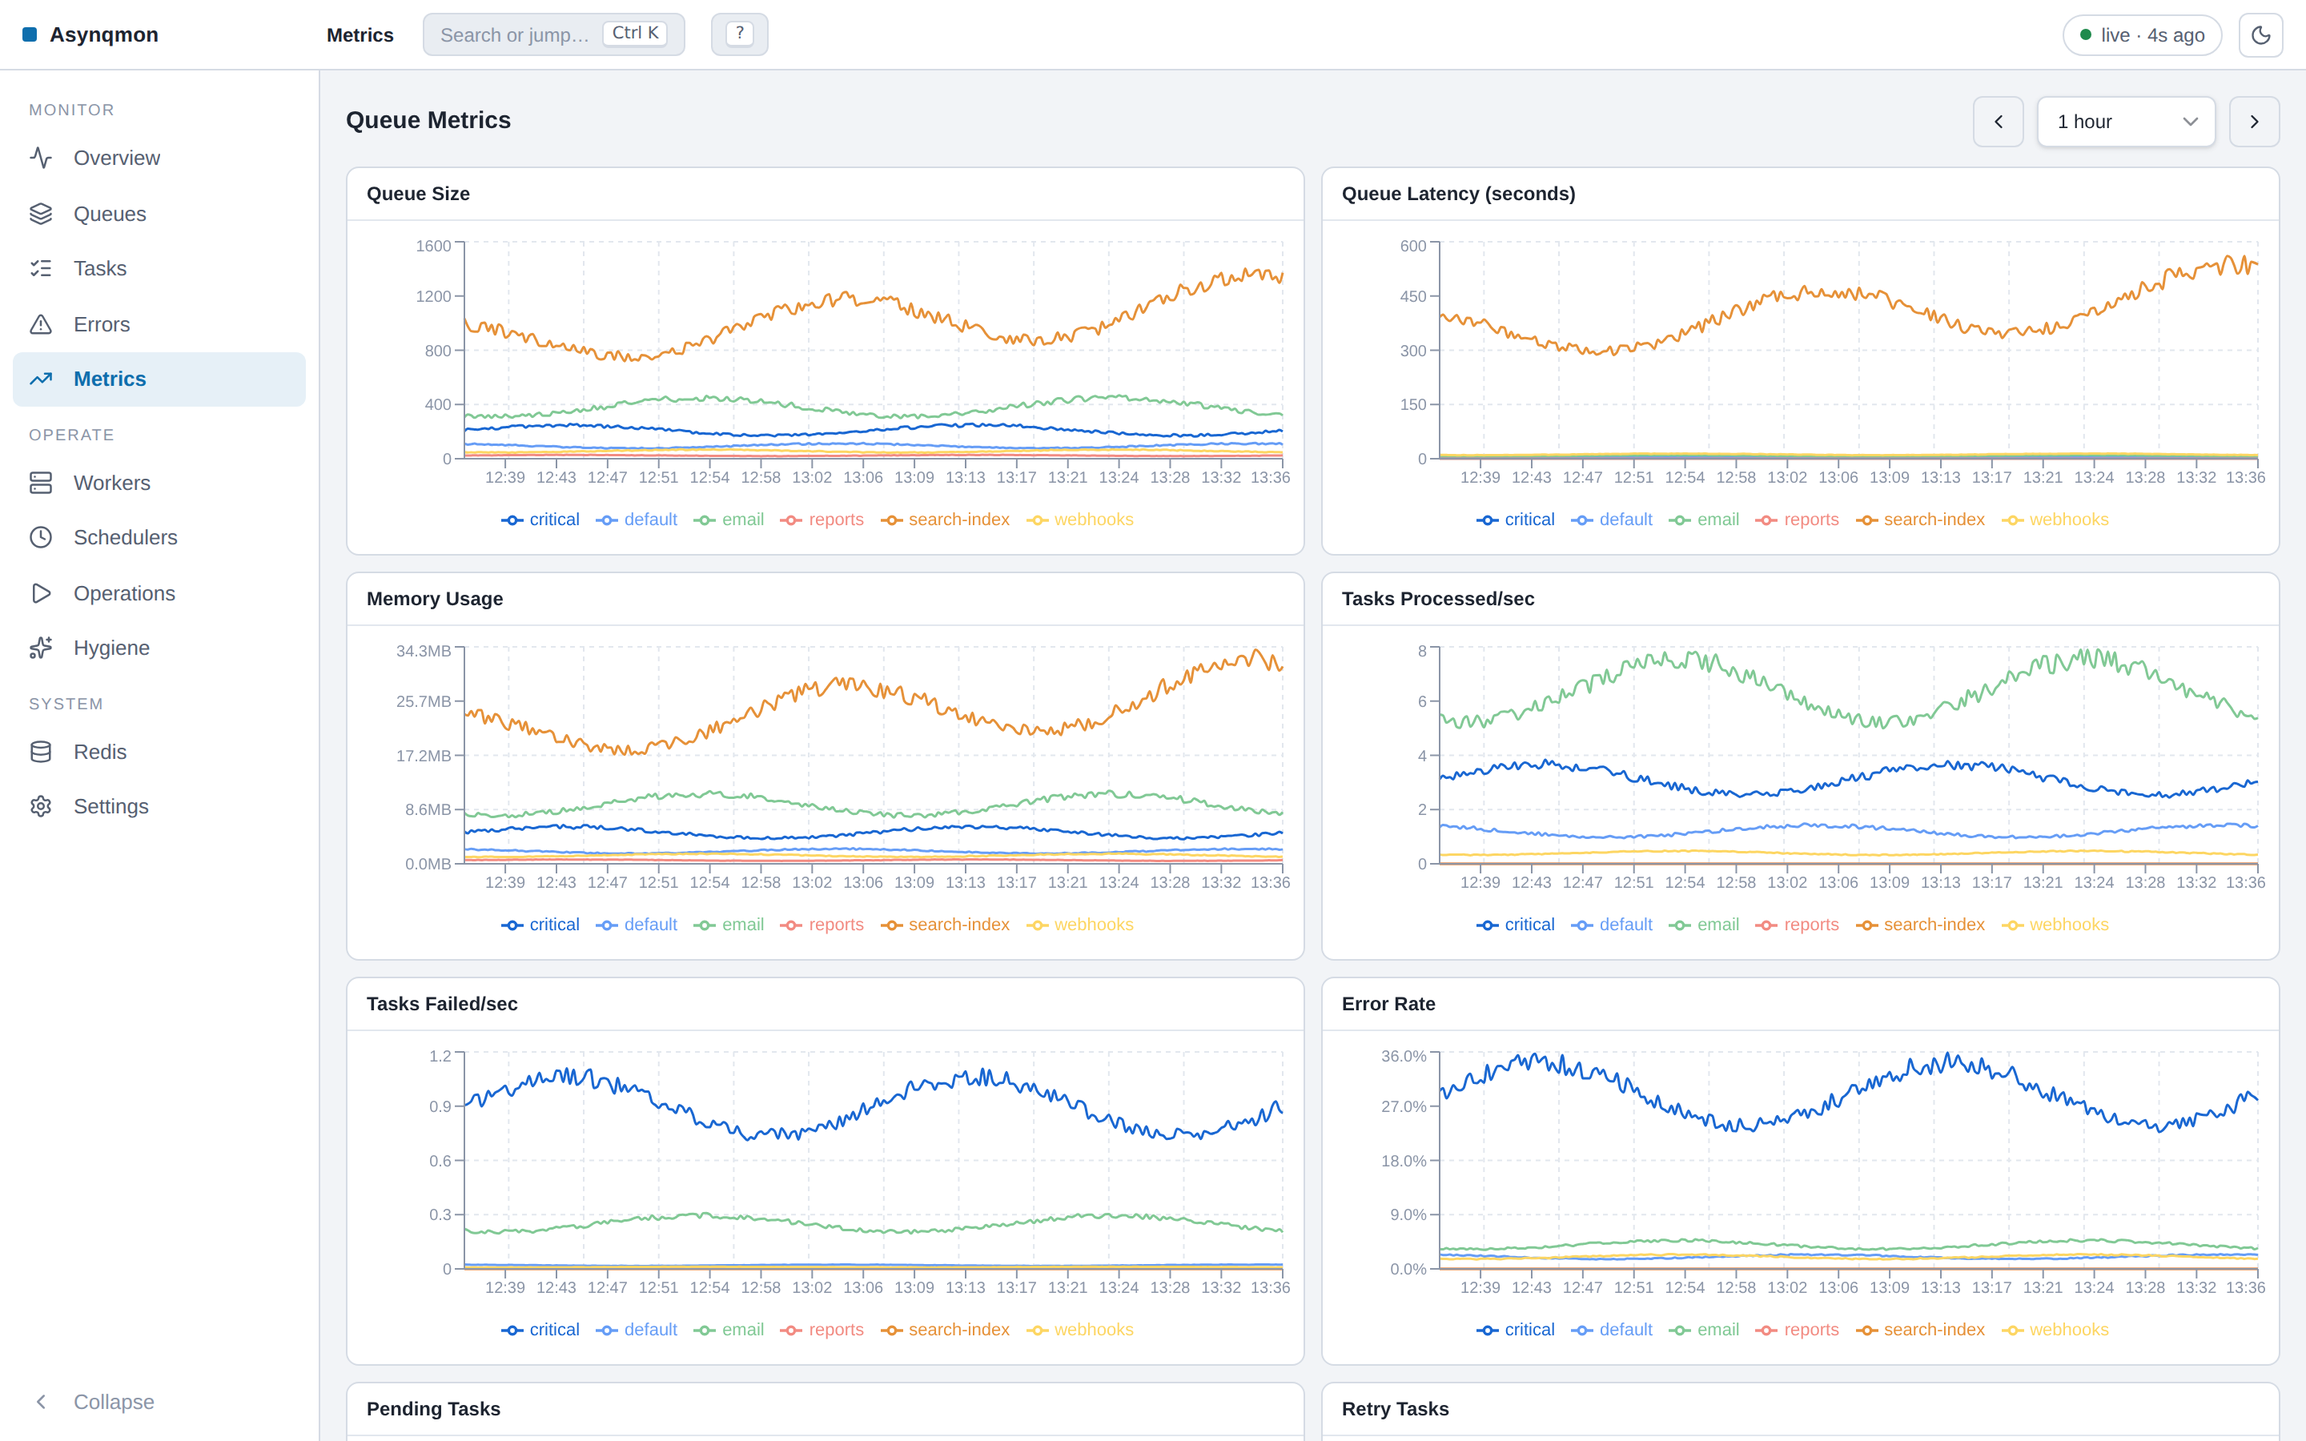
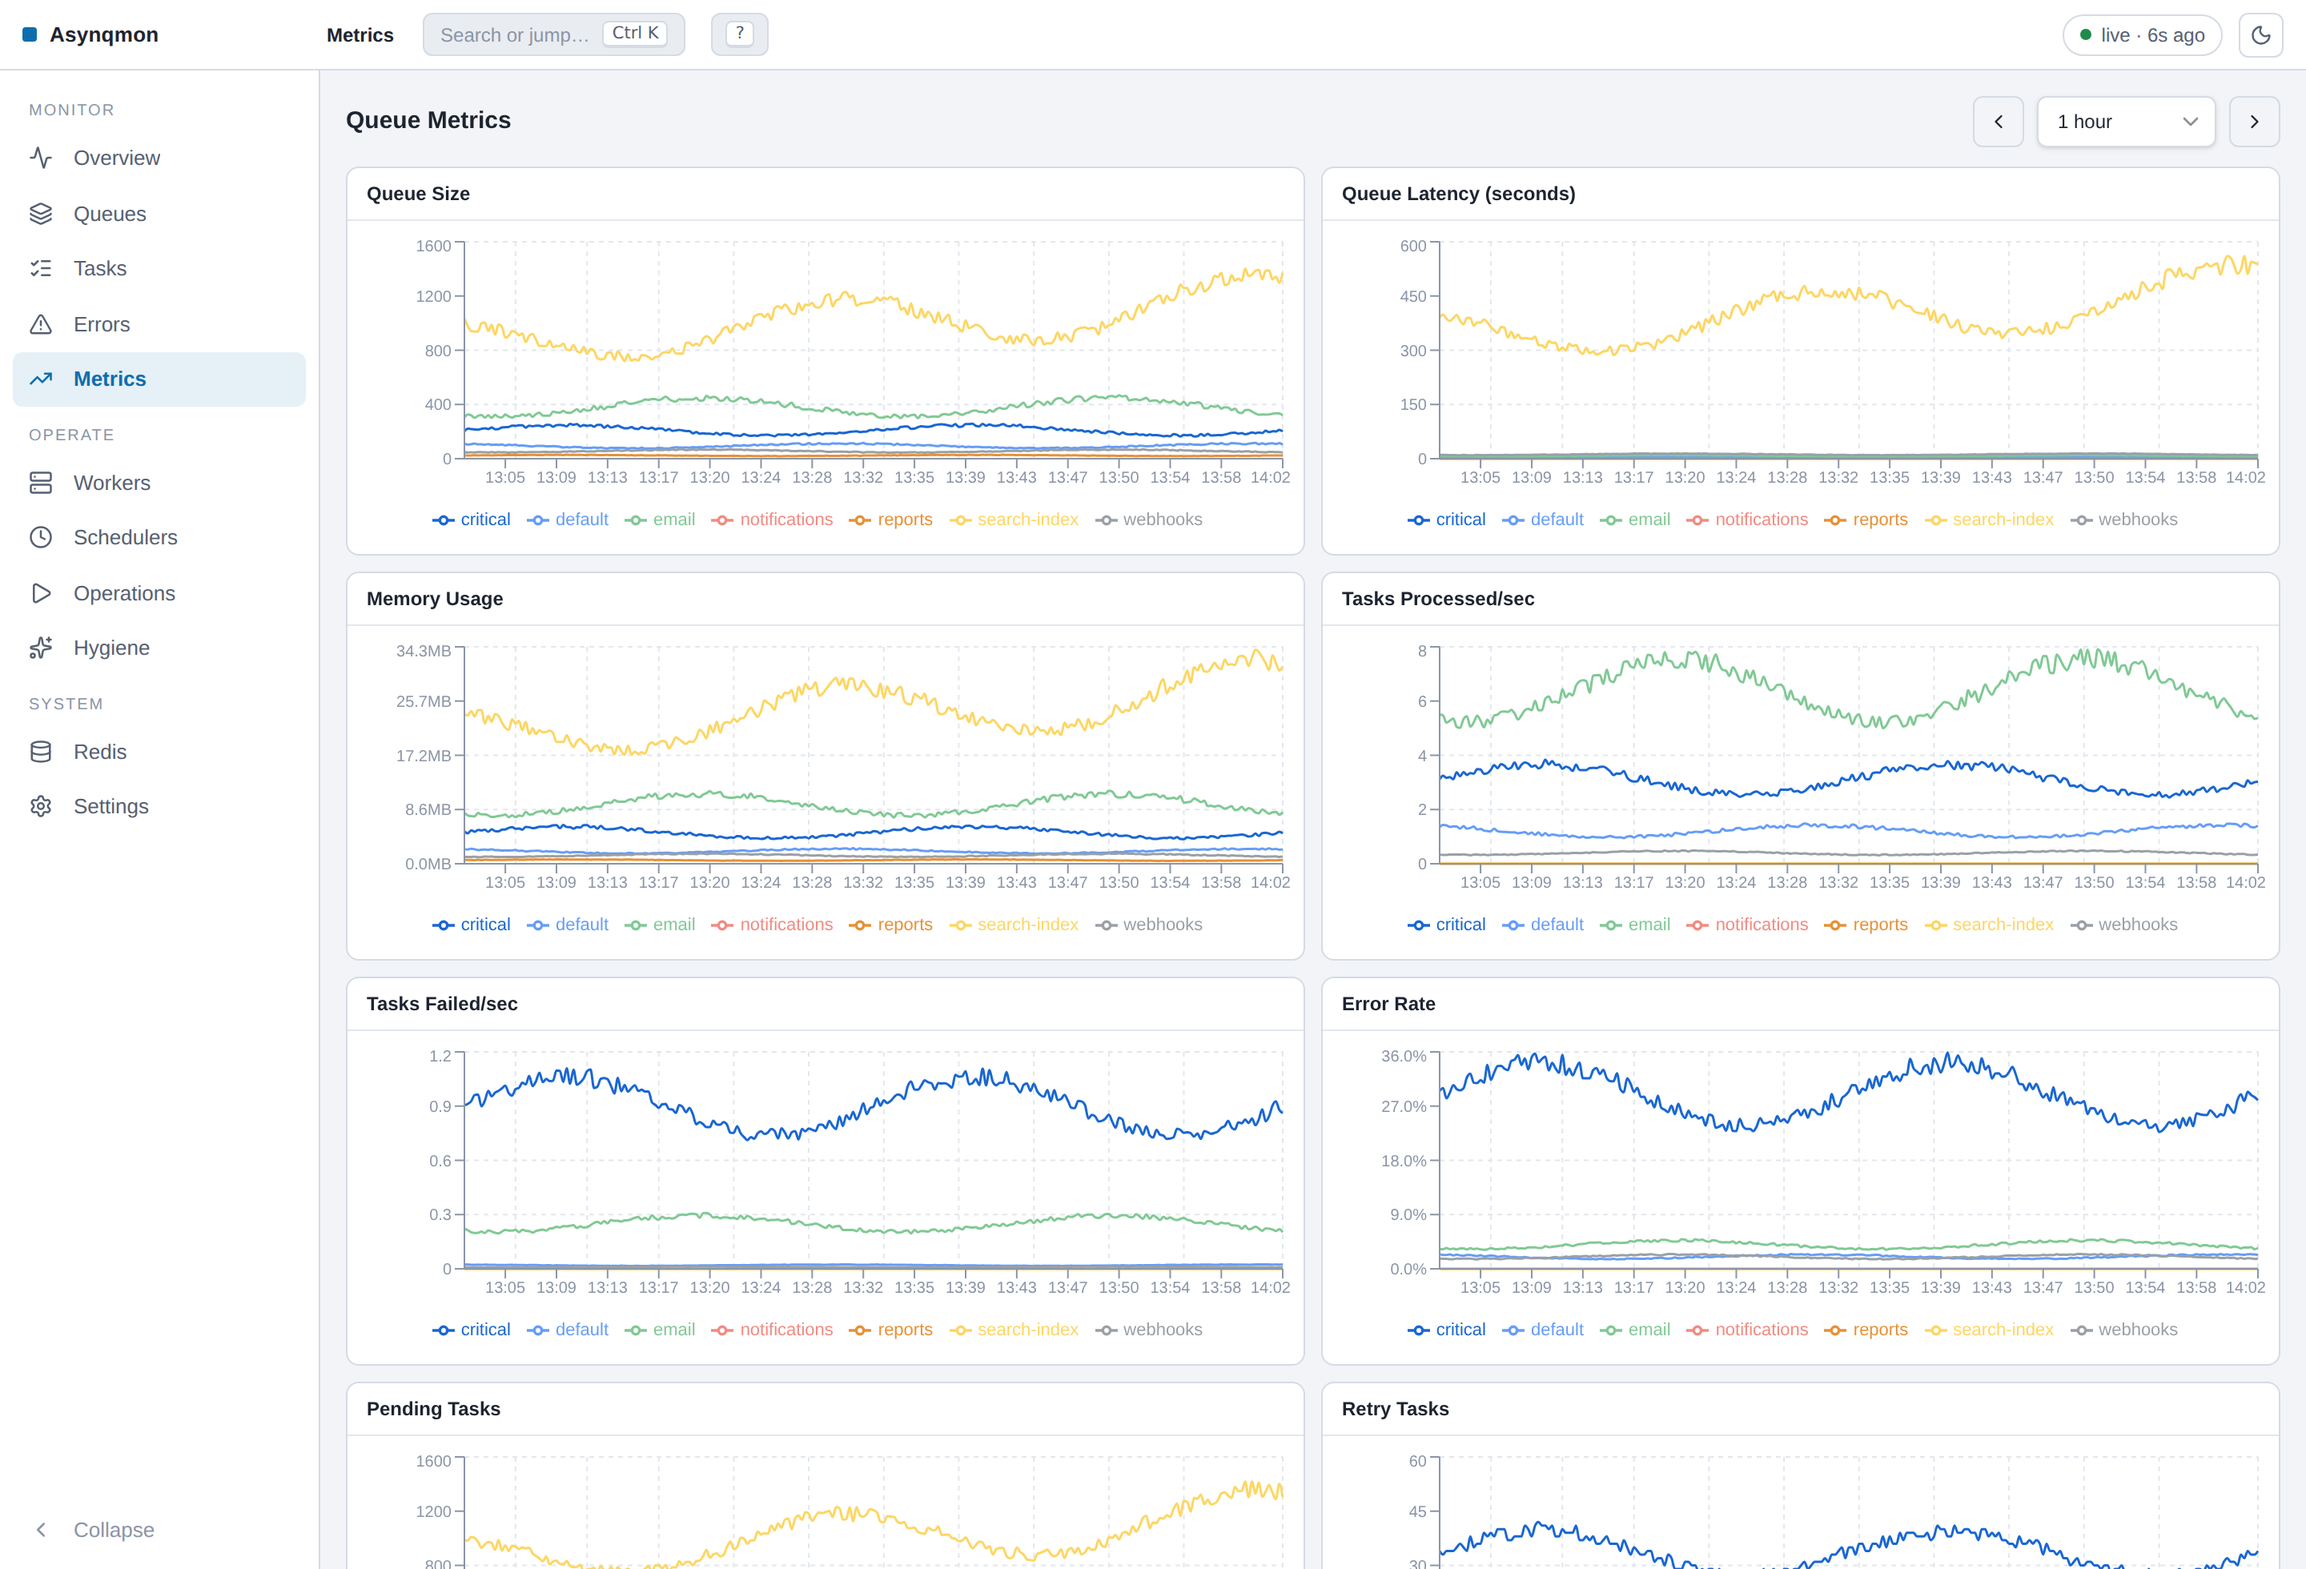
docs: pass-2 screenshots with accrued history; facet high-cardinality guard
Screenshots recaptured after ~30 minutes of live fleet history: the
Overview now shows real KPI sparklines with deltas, six ranked
attention findings with trend charts, a failure-pulse bar and two
error signatures; the Queues directory (1680px) shows every column
including paused-since and the per-row pause/resume actions with real
30m sparklines; the workspace shows live attention findings; freshness
pills are warm on every page.

Along the way the fixtures exposed a real defect: payload keys whose
values are all distinct (UUID-ish ids) flooded the Tasks console's
chip row with pages of useless count-1 chips. collectFacets now drops
singleton values for keys above a small distinct-value cap, keeping
repeated (actually filterable) values; covered by a regression test.

Claude-Session: https://claude.ai/code/session_01BB3Be7e3ye1kd1E6gPDERA

diff --git a/task_search_handlers_test.go b/task_search_handlers_test.go
@@ -1,6 +1,7 @@
 package asynqmon
 
 import (
+	"fmt"
 	"testing"
 
 	. "github.com/smartystreets/goconvey/convey"
@@ -175,6 +176,29 @@ func TestPageBounds(t *testing.T) {
 			s, e = pageBounds(5, 1, 0)
 			So(s, ShouldEqual, 5)
 			So(e, ShouldEqual, 5)
+		})
+	})
+}
+
+func TestCollectFacetsHighCardinalityGuard(t *testing.T) {
+	Convey("Given payloads with one low- and one high-cardinality key", t, func() {
+		var matches []*searchTask
+		for i := 0; i < 40; i++ {
+			matches = append(matches, &searchTask{
+				rawPayload: fmt.Sprintf(`{"collection":"articles","doc_id":"doc_%06d"}`, i),
+			})
+		}
+		facets := collectFacets(matches, 50)
+
+		Convey("The repeated value keeps its chip with the full count", func() {
+			So(len(facets), ShouldBeGreaterThan, 0)
+			So(facets[0].Key, ShouldEqual, "collection")
+			So(facets[0].Count, ShouldEqual, 40)
+		})
+		Convey("The unique-per-task key produces no count-1 chip flood", func() {
+			for _, f := range facets {
+				So(f.Key, ShouldNotEqual, "doc_id")
+			}
 		})
 	})
 }

diff --git a/task_search_handlers.go b/task_search_handlers.go
@@ -754,8 +754,21 @@ func collectFacets(matches []*searchTask, limit int) []metaFacet {
 			}
 		}
 	}
+	// High-cardinality guard: a key whose values are (nearly) all distinct —
+	// UUIDs, order ids, unique document ids — cannot drill anything down; it
+	// only floods the chip row with count-1 chips. Keep a key's singleton
+	// values only while the key stays low-cardinality; keys with many
+	// distinct values keep just their repeated (actually filterable) values.
+	const facetKeyCardinalityCap = 8
+	distinctPerKey := make(map[string]int)
+	for _, a := range counts {
+		distinctPerKey[a.facet.Key]++
+	}
 	out := make([]metaFacet, 0, len(counts))
 	for _, a := range counts {
+		if a.n == 1 && distinctPerKey[a.facet.Key] > facetKeyCardinalityCap {
+			continue
+		}
 		f := a.facet
 		f.Count = a.n
 		out = append(out, f)

diff --git a/CHANGELOG.md b/CHANGELOG.md
@@ -7,6 +7,10 @@ and this project adheres to [Semantic Versioning](https://semver.org/spec/v2.0.0
 
 ## [Unreleased]
 
+### Fixed
+
+- (api): The task-metadata facet sampler drops high-cardinality payload keys (UUID-ish ids whose values are all distinct) instead of flooding the console's chip row with pages of count-1 chips that cannot drill anything down
+
 ### Changed
 
 - (docs): README screenshots regenerated against the current console — the previous set predated the Fleet Console rebuild entirely; adds an Overview screenshot (the landing screen had none) and content-fit captures of the Queues directory, queue workspace, Tasks console, Metrics, and dark-mode Settings
